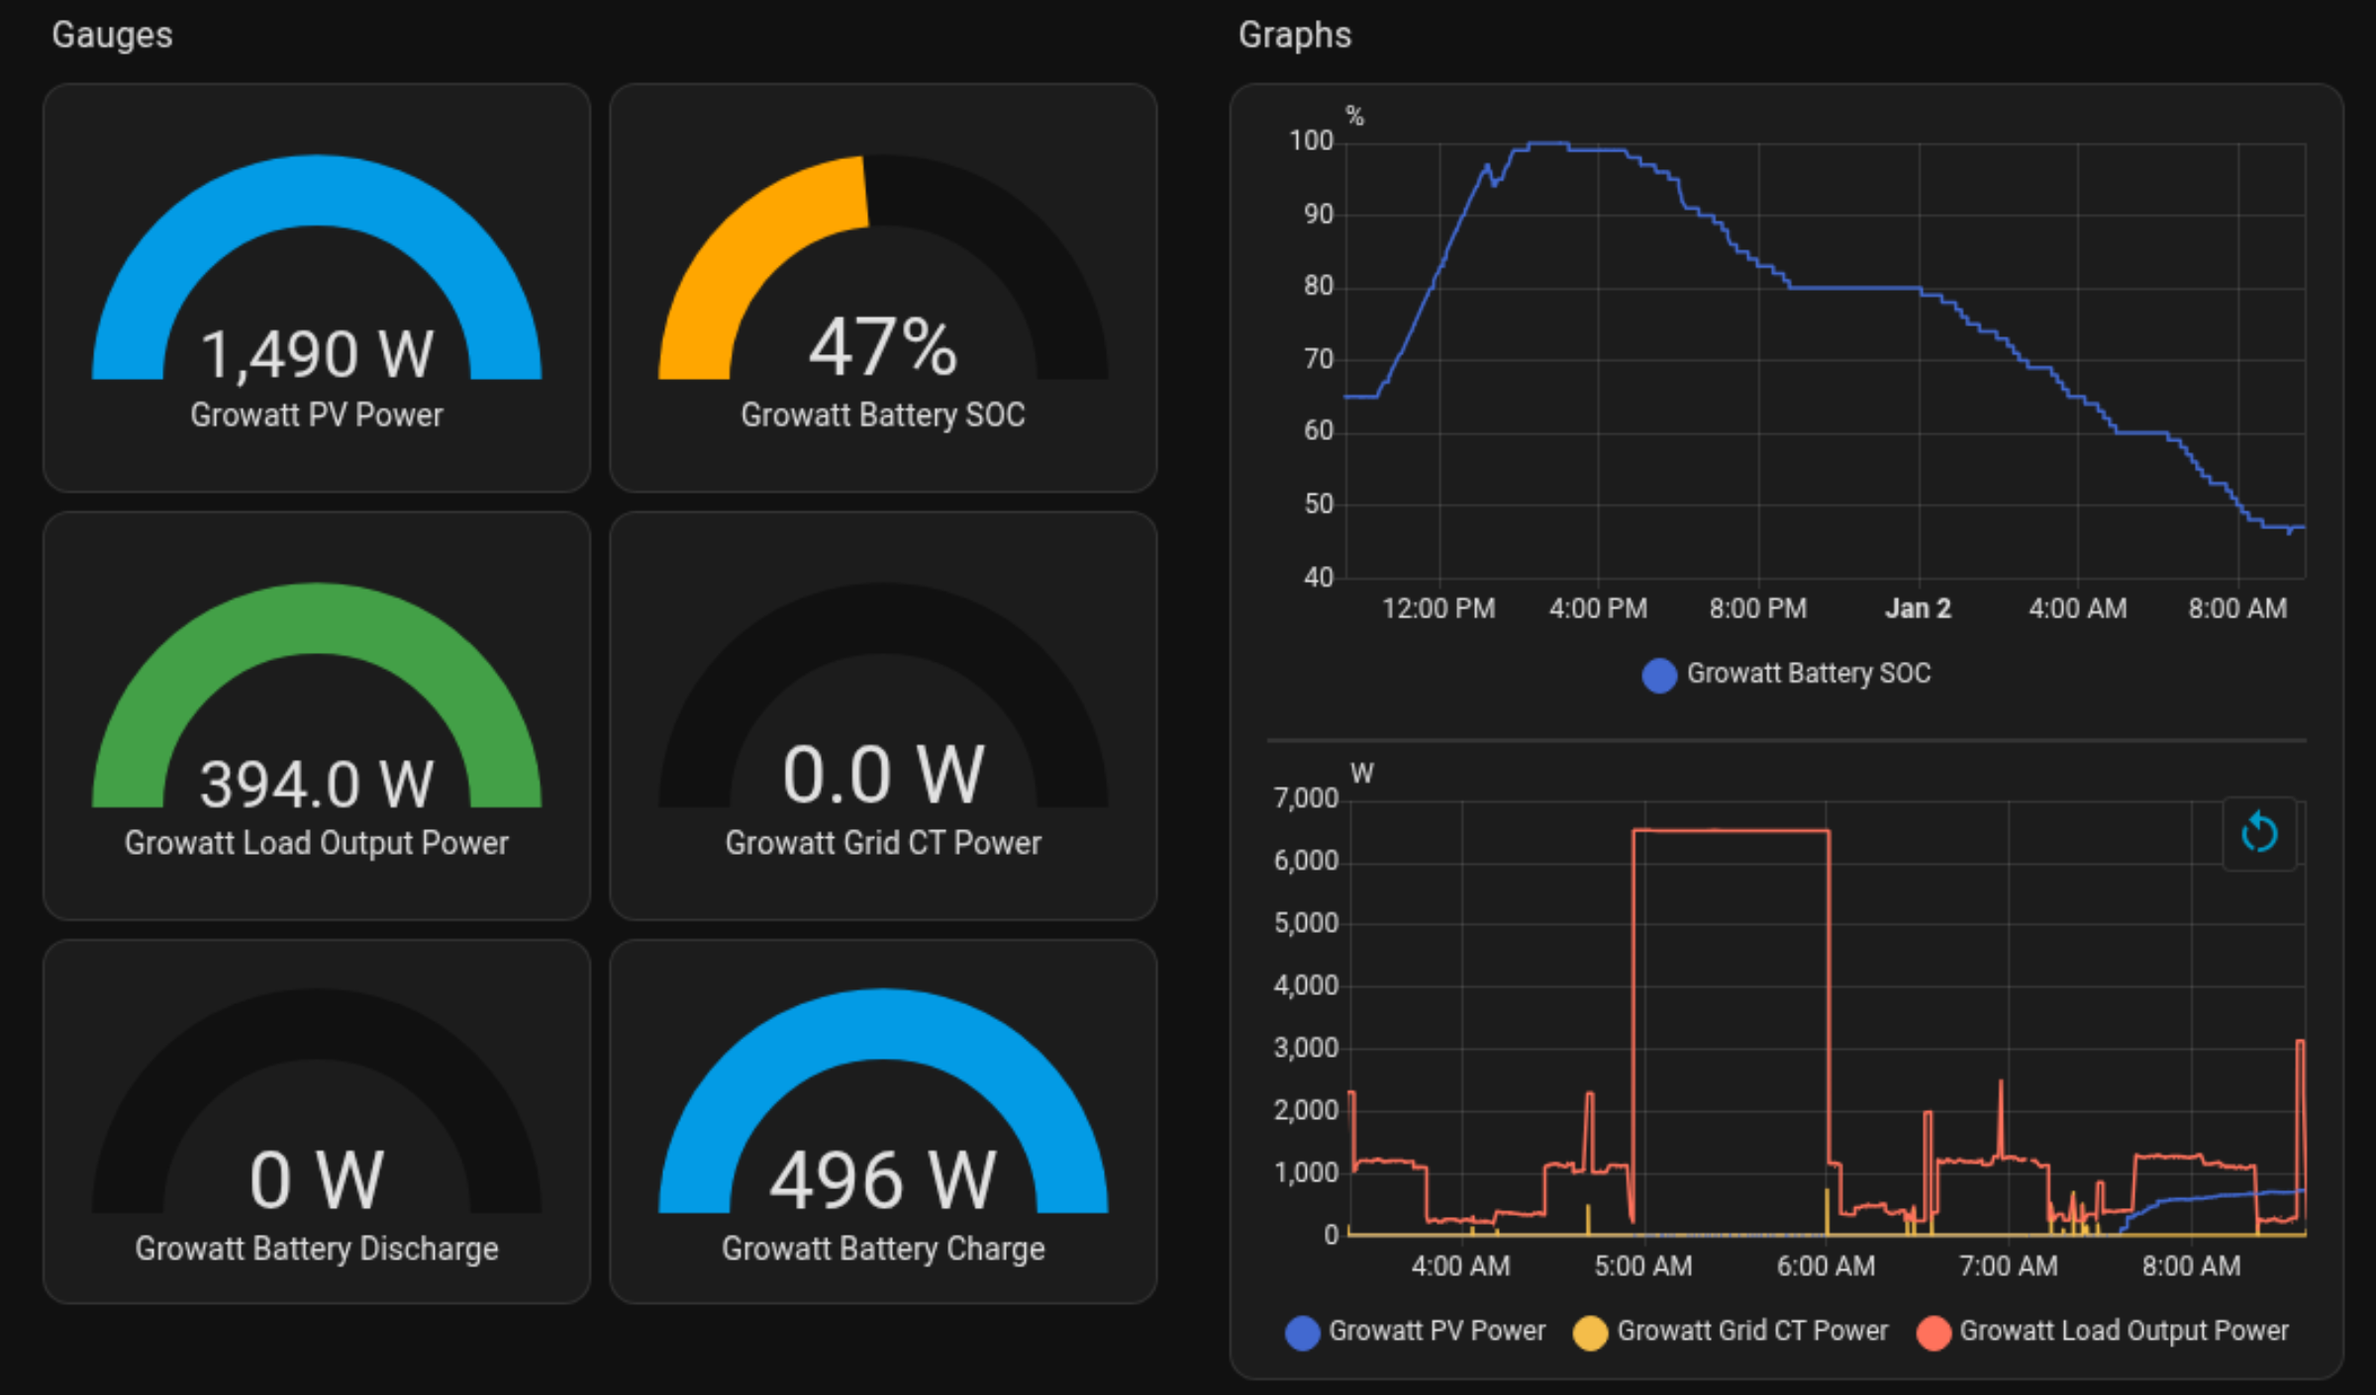
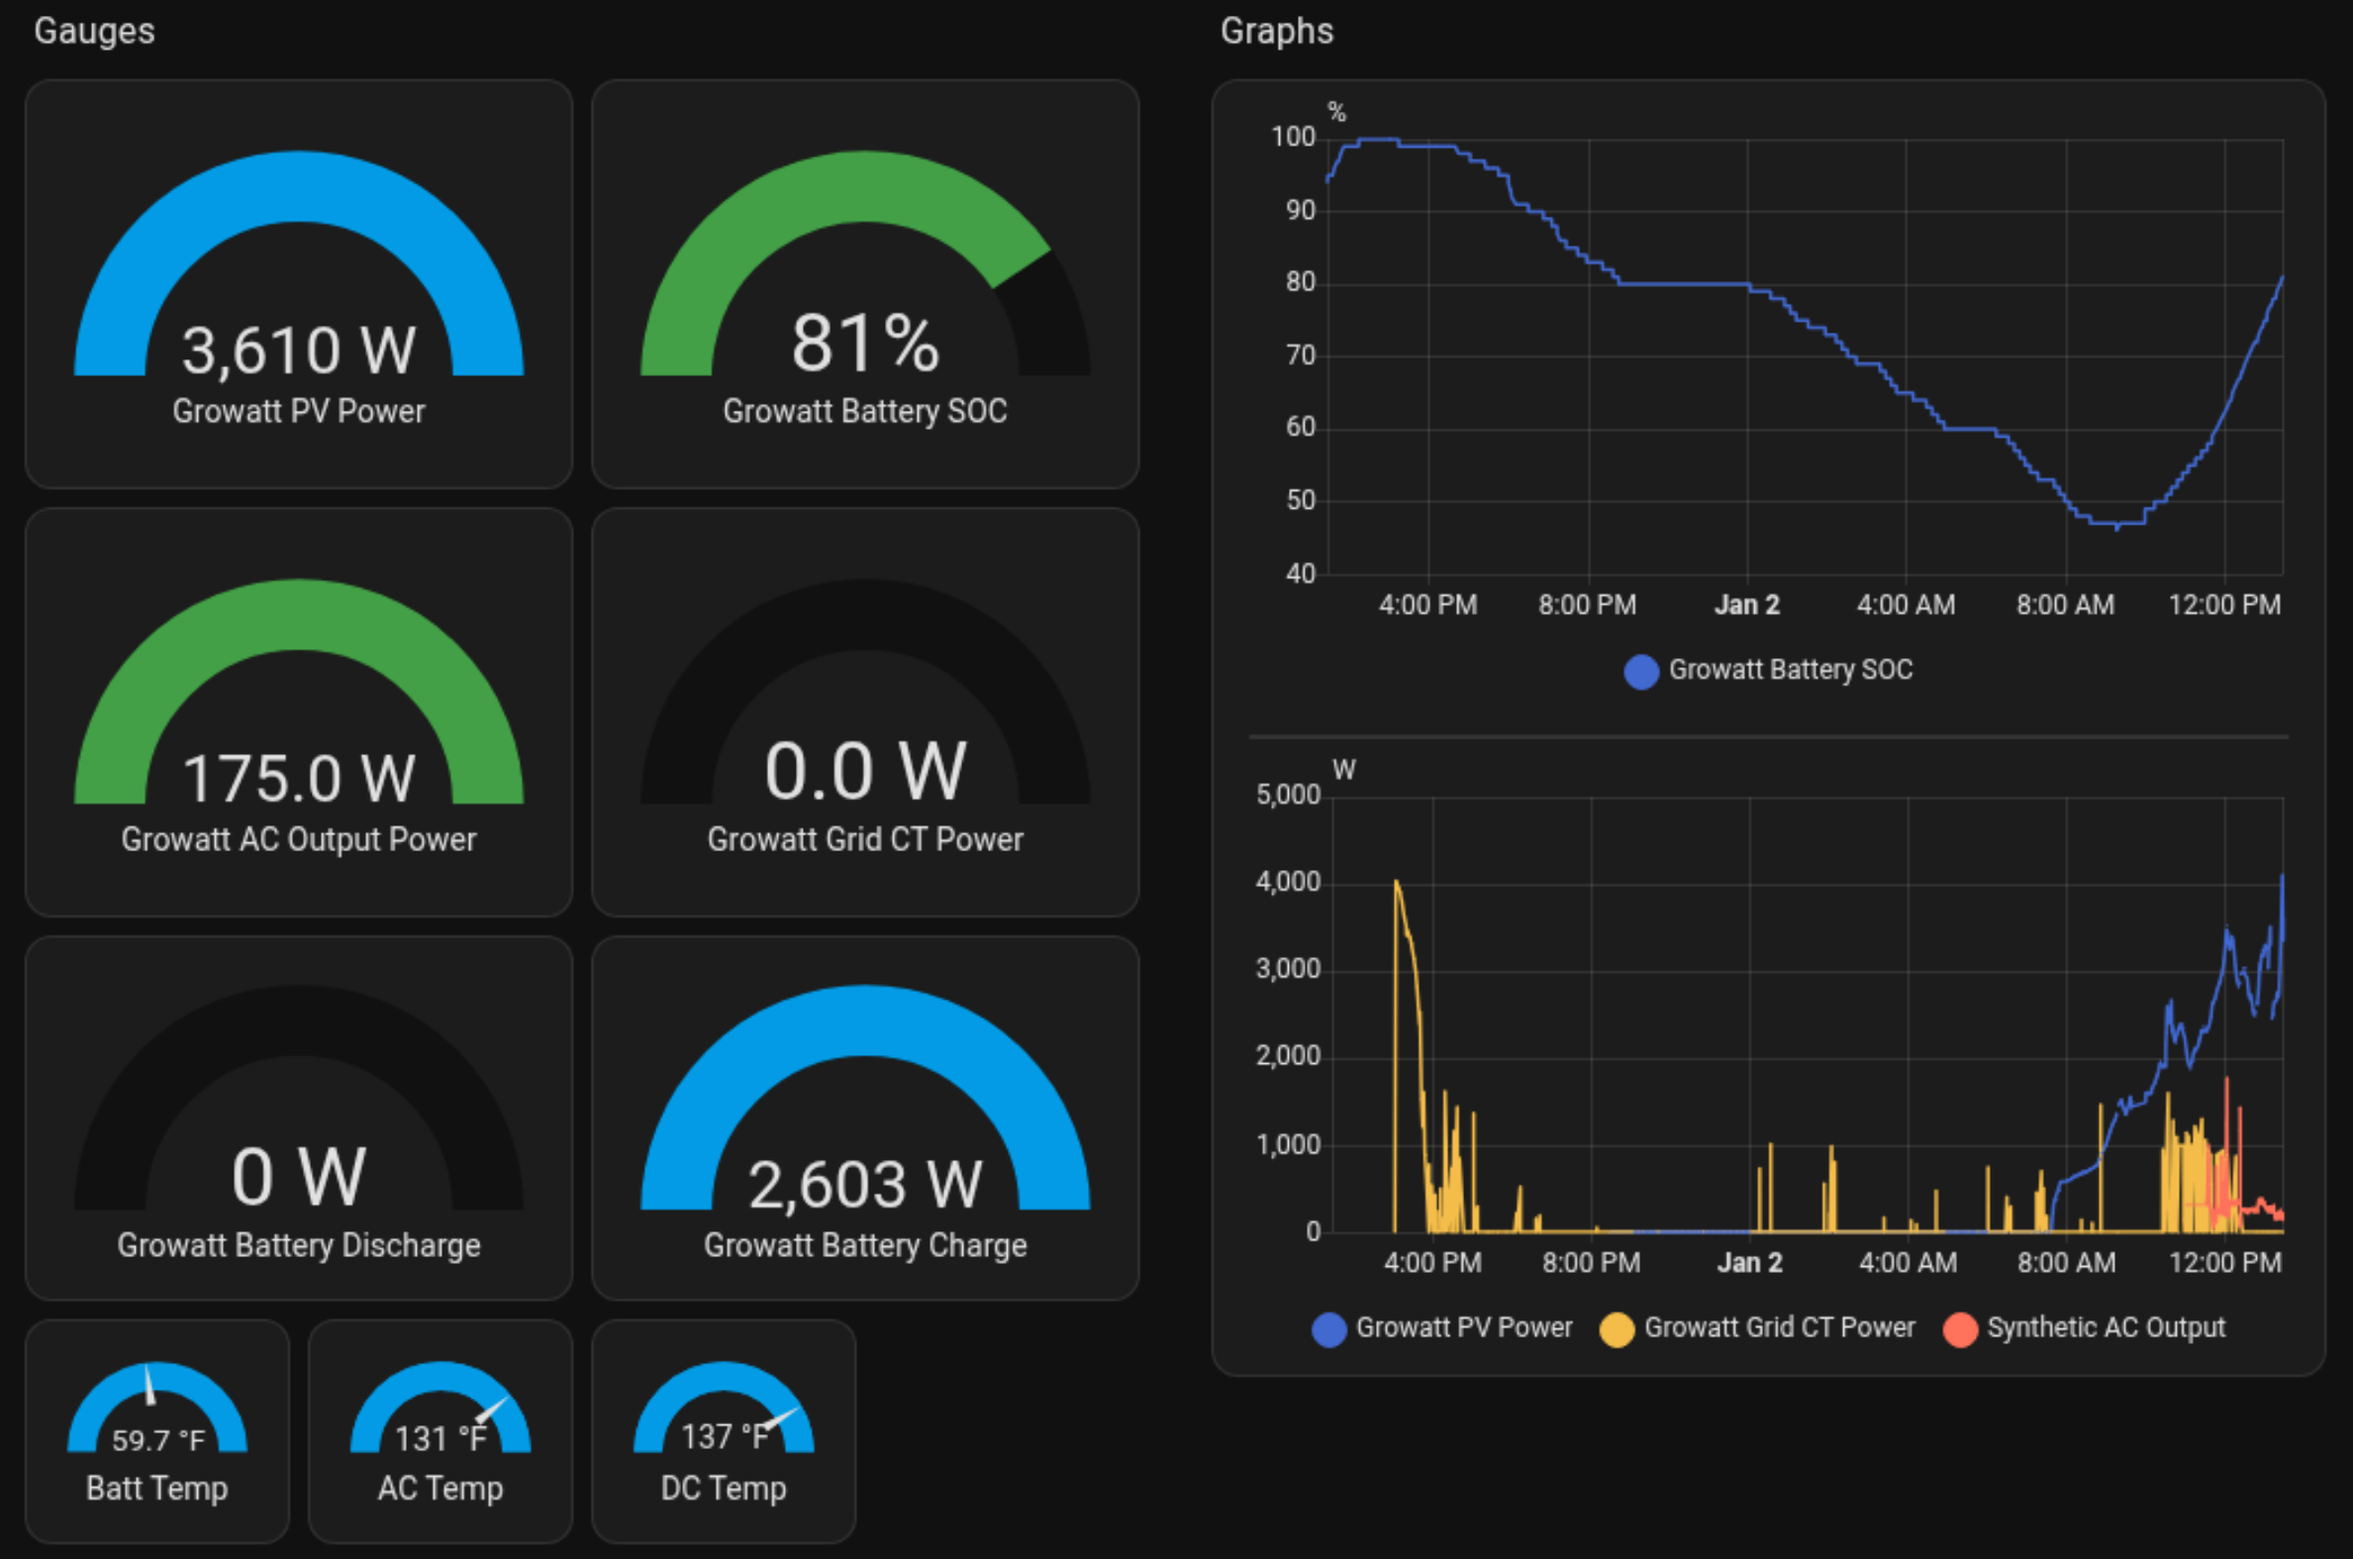
readme

diff --git a/README.md b/README.md
@@ -18,9 +18,9 @@ Feel free to submit PRs to add support for other inverters.
 
 # Hardware Requirements
 
-* Currently only tested with the Growatt S`PH 10000TL-HU-US-B` running HMI Version `SK110.04-08051`
+* Currently only tested with the Growatt `SPH 10000TL-HU-US-B` running HMI Version `SK110.04-08051`
 * A Microcontroller like an `ESP32`  (I used a generic `ESP32-C6`, but custom devices like LilyGO T-CAN485 may be simpler)
-* A RS485 module for the microcontroller (If not built-in).  I used a HiLetgo TTL to RS485 because it works at 3.3v like the ESP32.
+* A RS485 module for the microcontroller (If not built-in).  I used a HiLetgo TTL to RS485 because it works at 3.3v like the ESP32.  It's connected via 4 pins (UART): TX (6), RX (7), GND, VCC (see yaml)
 * A sacrificial ethernet cable (pinout below), connected to the RS485 module (by cutting it in half)
 
 # Pinout
